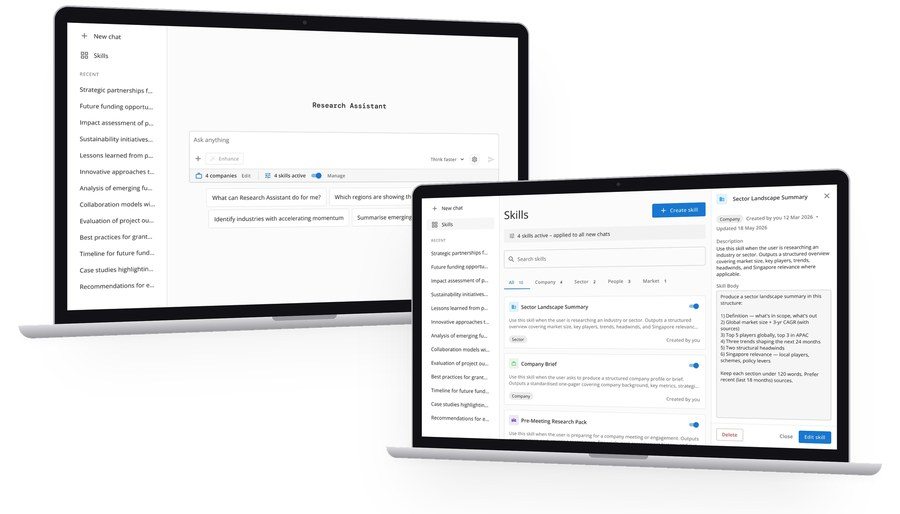
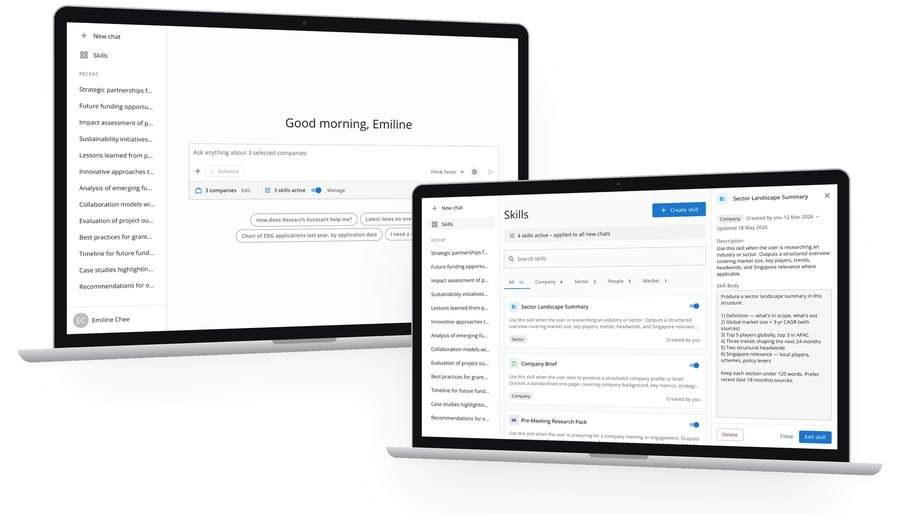
Publish the Research Assistant case study
Brings the full write-up, its images, the greeting hero and the
shared editorial/caption styles over from drafts. Workflow Builder
stays drafts-only.

diff --git a/case-studies/research-assistant.html b/case-studies/research-assistant.html
@@ -4,14 +4,14 @@
 <meta charset="UTF-8">
 <meta name="viewport" content="width=device-width, initial-scale=1.0">
 <title>EnterpriseSG research assistant — emiline</title>
-<meta name="description" content="Bringing conversational AI to an internal data hub">
+<meta name="description" content="Bringing conversational AI to an internal data hub.">
 <link rel="icon" href="../favicon.svg" type="image/svg+xml">
 <link rel="icon" href="../favicon-32.png" sizes="32x32" type="image/png">
 <link rel="apple-touch-icon" href="../apple-touch-icon.png">
 <meta property="og:type" content="website">
 <meta property="og:site_name" content="emillionaire.design">
 <meta property="og:title" content="EnterpriseSG research assistant — emiline">
-<meta property="og:description" content="Bringing conversational AI to an internal data hub">
+<meta property="og:description" content="Bringing conversational AI to an internal data hub.">
 <meta property="og:url" content="https://emillionaire.design/case-studies/research-assistant.html">
 <meta property="og:image" content="https://emillionaire.design/assets/img/share.jpg">
 <meta property="og:image:width" content="1200">
@@ -41,16 +41,206 @@
       <span class="yr">2026</span>
       <h1>EnterpriseSG research assistant</h1>
       <p>Bringing conversational AI to an internal data hub</p>
+      <dl class="cs-meta">
+        <div><dt>Role</dt><dd>Solo product designer</dd></div>
+        <div><dt>Client</dt><dd>Enterprise Singapore</dd></div>
+        <div><dt>Status</dt><dd>Launched Aug 2026</dd></div>
+        <div><dt>Date</dt><dd>Oct 2025 – present</dd></div>
+      </dl>
+      <p class="cs-fine">* Product name and assets replaced to protect internal product identity.</p>
     </div>
 
     <div class="ed-hero">
-      <img src="../assets/img/research-assistant.png" alt="Research Assistant cover image">
+      <img src="../assets/img/research-assistant.png" alt="Two angled laptops: the Research Assistant chat home greeting the officer behind, and the Skills library with a skill detail drawer in front">
     </div>
   </header>
 
-  <div class="cs-soon">
-    <b>Full case study coming soon.</b> This project is on the list to be written up in detail — for now, here's a preview of the project.
-  </div>
+  <section class="cs-section">
+    <h2>Overview</h2>
+    <p>Officers at Enterprise Singapore were spending <strong>2+ hours per company brief</strong>, manually pulling information from internal platforms and the open web before client meetings and strategy reviews. That was time taken away from higher-value client work.</p>
+    <p>To cut that time down, we built a conversational, agentic research assistant that <strong>brings company, sector and market insights into one place</strong>. Officers ask a question and get an answer drawn from EnterpriseSG’s internal data platform and real-time web search, with sources cited.</p>
+    <p>As the sole designer, I owned end-to-end product design, working closely with the PM, AI engineer and dev team to ship 13 features across multiple beta rounds.</p>
+  </section>
+
+  <section class="cs-section">
+    <span class="yr">How it evolved</span>
+    <h2>From chatbot to research platform</h2>
+    <p>The product went through three distinct phases, <strong>each shaped by what we learned from the one before</strong>.</p>
+
+    <div class="cs-issue phase">
+      <span class="yr">Phase 01 · Concept and research</span>
+      <h3>Touchpoints AI</h3>
+      <p>A chatbot embedded in the “Past Touchpoints” section of a company page in EnterpriseSG’s data platform. <strong>Scoped entirely to that company’s engagement history</strong>, it let officers ask about past interactions (eg. call reports, past meetings) without leaving their current view.</p>
+      <p class="cs-aside">Assumption: officers want help in context, where they’re already looking.</p>
+      <div class="cs-img"><img class="soft" src="../assets/img/research-assistant/touchpoints-ai.gif" alt="Prototype: opening the Touchpoints AI chatbot from a company page in the data platform" loading="lazy"></div>
+      <h4 class="cs-subhead spaced">But officers needed more than touchpoints</h4>
+      <p>Interviews with ~10 officers showed they needed more than engagement history. To prepare for a meeting or write a company brief, they were pulling together <strong>company profiles, grant and scheme history, financials and web research across multiple systems</strong>.</p>
+      <p class="cs-aside">“I still need to use ChatGPT or Google to do a background search when meeting a new company.” — Participant A</p>
+      <p>Implication: the assistant had to bring internal data and web research together in one place.</p>
+    </div>
+
+    <div class="cs-issue phase">
+      <span class="yr">Phase 02 · Beta</span>
+      <h3>Sidebar + Full page chat</h3>
+      <p>I designed two surfaces in parallel: a <strong>sidebar chatbot</strong> for company-specific queries, embedded in the existing platform, and a standalone <strong>full-page chat</strong> for broader research across companies and sectors.</p>
+      <div class="cs-img two">
+        <figure class="cs-shot">
+          <img class="soft" src="../assets/img/research-assistant/sidebar-prototype.gif" alt="Prototype: the sidebar chatbot opening beside a company page" loading="lazy">
+          <figcaption>Sidebar chat</figcaption>
+        </figure>
+        <figure class="cs-shot">
+          <img class="soft" src="../assets/img/research-assistant/full-page-chat.jpg" alt="Full-page Research Assistant chat greeting the officer by name, with suggested prompts under the input" loading="lazy">
+          <figcaption>Full-page chat</figcaption>
+        </figure>
+      </div>
+
+      <h4 class="cs-subhead spaced lg">Org-wide beta testing</h4>
+      <div class="cs-stats three">
+        <div><b>~70</b><span>Officers across divisions</span></div>
+        <div><b>2</b><span>Rounds of beta testing</span></div>
+        <div><b>3</b><span>Test cases per session</span></div>
+      </div>
+      <p>We ran two rounds of beta testing with ~70 officers across divisions, each guided through three structured test cases to surface usability issues and unmet needs.</p>
+      <p>Officers struggled to discover the sidebar and preferred the full-page chat for everything. <strong>We decommissioned the sidebar.</strong></p>
+      <p class="cs-aside">Insight: officers weren’t just reviewing one company. They were synthesising across companies, sectors and sources, and wanted one surface to do it all.</p>
+
+      <h4 class="cs-subhead lg">Top issues identified</h4>
+      <p>As a user,</p>
+      <div class="cs-needs">
+        <div>
+          <span class="yr theme">Context</span>
+          <p>I want the agent to <strong>understand our context</strong>, like sector resolution, brief format and writing style.</p>
+        </div>
+        <div>
+          <span class="yr theme">Scope</span>
+          <p>I want my queries <strong>grounded in a specific company</strong>, without restating it in every prompt.</p>
+        </div>
+        <div>
+          <span class="yr theme">Sources</span>
+          <p>I want to see the <strong>web sources</strong> consulted, and open the underlying call reports <strong>without leaving the interface</strong>.</p>
+        </div>
+      </div>
+    </div>
+
+    <div class="cs-issue phase">
+      <span class="yr">Phase 03 · Current</span>
+      <h3>Agentic research platform</h3>
+      <p>Those findings reshaped the product. Rather than asking a question and receiving an answer, officers now brief the agent: <strong>setting scope, activating skills</strong>, and <strong>letting the agent plan, query, synthesise and evaluate on its own</strong> before responding. The officer delegates; the agent handles the research workflow.</p>
+      <p class="cs-aside">Insight: access to information wasn’t the bottleneck. Officers needed to be able to shape how the agent worked, not just what it searched.</p>
+    </div>
+  </section>
+
+  <section class="cs-section features">
+    <h2>Key features</h2>
+    <p>The beta findings shaped the 13 features that followed. Here are some of the key ones, the problem each solved and the decisions behind them.</p>
+
+    <span class="yr theme">Context</span>
+    <h3>Skills and prompt enhancement</h3>
+    <p>Beta feedback made it clear that officers weren’t struggling to access information. They struggled to ask for it in a way that produced useful results. <strong>Different officers expected different formats, tone and depth</strong>, and the agent had no way to account for that by default. I designed two features that tackle this at different points.</p>
+
+    <h4 class="cs-subhead">1. Skills</h4>
+    <p>Skills are <strong>small, reusable instruction bundles</strong> that <strong>teach the agent how to execute a specific task consistently</strong>. For example, an officer activating the “Sector Landscape Summary” skill gets a structured overview of market size, key players and trends, without spelling any of that out in every prompt.</p>
+    <p>The challenge was making skills feel lightweight and within reach, not like a settings menu buried in a corner. <strong>The skills bar sits directly beneath the input</strong>, always visible. A manage link opens the library, where a drawer lets officers preview a skill while keeping the list in view.</p>
+    <figure class="cs-shot cs-img mid mid-sm">
+      <img src="../assets/img/research-assistant/skills-bar.png" alt="Three states of the skills bar under the input: skills off, no skills active, and two skills active plus 2 more" loading="lazy">
+      <figcaption>Skills bar within input box</figcaption>
+    </figure>
+    <figure class="cs-shot cs-img">
+      <img class="soft" src="../assets/img/research-assistant/skill-library.jpg" alt="Skills library with category tabs and toggles, and a drawer showing the Sector Landscape Summary skill's description and body" loading="lazy">
+      <figcaption>Skills library with detail drawer; browse, preview, and toggle without leaving the page</figcaption>
+    </figure>
+
+    <h4 class="cs-subhead">2. Prompt enhancement</h4>
+    <p>Even with skills active, officers sometimes sent prompts <strong>too brief or ambiguous</strong> to produce a good result. The Enhance button tackles this at the moment of input, <strong>expanding and clarifying a prompt before it’s sent</strong>, without the officer needing to know what a “good” prompt looks like.</p>
+    <p>The interaction had to feel helpful, not corrective. I designed <strong>six states</strong>: empty (disabled), below the character threshold, ready, streaming (the text rewrites inline instead of showing a spinner), complete with two-level undo, and error, with amber for a timeout and red for a failure.</p>
+    <figure class="cs-shot cs-img mid">
+      <img src="../assets/img/research-assistant/enhance-states.png" alt="Six states of the input's Enhance button, from disabled to enhanced with undo, and an error message" loading="lazy">
+      <figcaption>Enhance button state progression: empty → below-threshold → ready → streaming → complete → error</figcaption>
+    </figure>
+
+    <span class="yr theme">Scope</span>
+    <h3>Company scoping</h3>
+    <p>Officers needed a way to point queries at specific companies without breaking the flow of starting a conversation. Early versions treated scope as a single-company toggle, but feedback made it clear that scope had to <strong>support multiple companies</strong>.</p>
+    <p><strong>Key constraint:</strong> scope had to be set before the first message. Changing it mid-session would invalidate the conversation context, so the <strong>entry point had to be clear</strong>, and the locked state had to explain itself rather than surface as an error.</p>
+    <p>Getting to the right pattern took several iterations, each exposing a different problem.</p>
+
+    <div class="cs-issue">
+      <span class="yr step">Iteration 1</span>
+      <h4 class="cs-subhead">Slash command</h4>
+      <p>Typing “/” in the input opened a <strong>contextual menu</strong> with companies and skills, a pattern familiar from tools like Notion or Claude. The problem was <strong>discoverability</strong>: officers who didn’t know the shortcut would never find scope or skills at all.</p>
+      <figure class="cs-shot cs-img mid">
+        <img src="../assets/img/research-assistant/iteration-1.png" alt="Input with a slash menu offering Companies and Skills" loading="lazy">
+        <figcaption>Typing “/” surfaces a contextual menu with Companies and Skills options inline in the input</figcaption>
+      </figure>
+    </div>
+
+    <div class="cs-issue">
+      <span class="yr step">Iteration 2</span>
+      <h4 class="cs-subhead">Settings gear popover</h4>
+      <p>A single <strong>gear icon popover</strong> gave scope and skills one tidy entry point. But the icon gave <strong>no signal about what was configured</strong>: officers couldn’t tell whether scope was set or skills were active without clicking to check.</p>
+      <figure class="cs-shot cs-img mid">
+        <img src="../assets/img/research-assistant/iteration-2.png" alt="Gear icon popover listing company chips and skill chips" loading="lazy">
+        <figcaption>Gear icon in toolbar opens a popover showing Companies and Skills chips in one panel</figcaption>
+      </figure>
+    </div>
+
+    <div class="cs-issue">
+      <span class="yr step">Iteration 3</span>
+      <h4 class="cs-subhead">Scope banner above input</h4>
+      <p>A persistent <strong>“<em>Scoped to</em>” banner</strong> above the input made scope visible at a glance. But with scope above and skills below, the <strong>composer felt heavy</strong>: two rows of configuration before officers had typed anything.</p>
+      <figure class="cs-shot cs-img mid">
+        <img src="../assets/img/research-assistant/iteration-3.png" alt="Scoped to banner with company chips above the input, and a skills row below it" loading="lazy">
+        <figcaption>“Scoped to:” banner row above input with company chips, skills toggle row below</figcaption>
+      </figure>
+    </div>
+
+    <div class="cs-issue">
+      <span class="yr rec">Final</span>
+      <h4 class="cs-subhead">Config line</h4>
+      <p>The solution was collapsing scope and skills into <strong>a single compact strip below the input</strong>: the config line. It always states the current setup (eg. “4 companies · 3 skills active”) and stays visible throughout the session, so officers can read their context at a glance before typing.</p>
+      <figure class="cs-shot cs-img mid">
+        <img src="../assets/img/research-assistant/iteration-4.png" alt="Input with a single config line reading 4 companies and 3 skills active" loading="lazy">
+        <figcaption>Config line below input as a single compact strip</figcaption>
+      </figure>
+      <p>Clicking Edit opens a <strong>right-side drawer</strong> where scoped companies appear as chips, and officers can search to add or remove them. <strong>Changes are staged before they’re applied</strong>, so half-finished edits never take effect. Once confirmed, the config line and input placeholder update to match.</p>
+      <figure class="cs-shot cs-img">
+        <img class="soft" src="../assets/img/research-assistant/editing-companies.jpg" alt="Chat scoped to 3 companies with the Edit companies in scope drawer open: selected companies as removable chips, a search for lorem with 2 results, and an Update scope button" loading="lazy">
+        <figcaption>Edit drawer; search to add or remove companies, then apply with Update scope</figcaption>
+      </figure>
+    </div>
+
+    <span class="yr theme">Sources</span>
+    <h3>Source attribution</h3>
+    <p>From the earliest interviews, <strong>trust was the central concern</strong>: officers wanted to know how a response was reached and where it came from before relying on it. So source attribution had to be visible at every stage of the research, not just appended to a finished answer. Two components carry this across the product.</p>
+
+    <h4 class="cs-subhead">1. Citation bubbles in reasoning steps</h4>
+    <p>As the agent works through a query, it <strong>shows the web sources</strong> consulted at each reasoning step, inline and in real time, so officers see the research as it happens. <strong>Citation bubbles are compact chips on each step</strong> that expand to show source detail on demand.</p>
+    <figure class="cs-shot cs-img mid">
+      <img src="../assets/img/research-assistant/citation-bubbles.png" alt="Searched the web reasoning step with six source chips and 4 more" loading="lazy">
+      <figcaption>Reasoning steps with citation bubbles</figcaption>
+    </figure>
+
+    <h4 class="cs-subhead">2. Call report drawer</h4>
+    <p>For internal sources, officers needed to <strong>verify the call reports a response cites without leaving the chat</strong>. Clicking a report reference opens a <strong>right-side drawer with the full report</strong>. The left sidebar collapses to an icon rail to make space, keeping the chat visible beside the drawer.</p>
+    <p>The key decision was treating the collapsed sidebar as a state triggered by the drawer, not a user preference. When the drawer closes, the sidebar expands again automatically, so officers never have to restore their workspace by hand.</p>
+    <figure class="cs-shot cs-img">
+      <img class="soft" src="../assets/img/research-assistant/call-report-drawer.gif" alt="Prototype: clicking a call report reference opens the report in a right-side drawer while the sidebar collapses" loading="lazy">
+      <figcaption>Prototype of opening a call report inline</figcaption>
+    </figure>
+  </section>
+
+  <section class="cs-section">
+    <h2>Outcomes</h2>
+    <p>The research assistant <strong>launched in August 2026</strong>.</p>
+    <div class="cs-stats three">
+      <div><b>~290</b><span>Monthly active users by September</span></div>
+      <div><b>~1,150</b><span>Chats started in September</span></div>
+      <div><b>13</b><span>Features designed and shipped</span></div>
+    </div>
+
+    <h3>What’s next</h3>
+    <p>I’m now designing the next release, including a <strong>skills library</strong> and <strong>secure file upload</strong>. Alongside that, we’re in the midst of <strong>surveying officers</strong> on how they use the assistant day to day: which tasks they bring to it, where its answers fall short, and what would make it a regular part of their workflow. Their responses will shape the roadmap beyond this release.</p>
+  </section>
 
   <nav class="ed-next" aria-label="More work">
     <a href="../projects.html" data-back><span>Back to</span>All work</a>

diff --git a/assets/css/editorial.css b/assets/css/editorial.css
@@ -73,6 +73,17 @@ body.ed{
 .ed .cs-refs + *{ margin-top:0; }
 .ed .cs-refs{ gap:40px; }
 
+/* header fine print (e.g. "assets replaced" disclaimers) */
+.ed .cs-hero p.cs-fine{ margin:18px 0 0; font-family:'JetBrains Mono',monospace; font-size:11.5px; color:var(--ed-sub); letter-spacing:.02em; }
+
+/* row of headline numbers; three-up user needs */
+.ed .cs-stats{ display:grid; grid-template-columns:repeat(4,1fr); gap:24px; margin:32px 0 36px; padding:24px 0; border-top:1px solid var(--ed-line); border-bottom:1px solid var(--ed-line); }
+.ed .cs-stats b{ display:block; font-family:'Bricolage Grotesque',sans-serif; font-weight:800; font-size:clamp(32px,4vw,44px); line-height:1; margin-bottom:8px; }
+.ed .cs-stats.three{ grid-template-columns:repeat(3,1fr); }
+.ed .cs-stats span{ display:block; font-size:14px; line-height:1.45; color:var(--ed-sub); }
+.ed .cs-needs{ display:grid; grid-template-columns:repeat(3,1fr); gap:28px; margin:20px 0 32px; }
+.ed .cs-section .cs-needs p{ font-size:15px; margin:0; }
+
 .ed .cs-links a{ border-width:1px; }
 .ed .cs-soon{ border:1px dashed #c9c9d3; margin-top:40px; }
 
@@ -102,6 +113,8 @@ body.ed{
 @media (max-width:680px){
   .ed .cs-img.split-rev{ grid-template-columns:1fr; }
   .ed .cs-img.three{ grid-template-columns:1fr; max-width:300px; }
+  .ed .cs-stats{ grid-template-columns:1fr 1fr; }
+  .ed .cs-needs{ grid-template-columns:1fr; gap:20px; }
   .ed-wrap{ padding:0 16px; }
   .ed-nav .ed-bar{ padding:16px; }
   .ed-head{ padding-top:32px; padding-bottom:36px; }
@@ -113,5 +126,26 @@ body.ed{
   .ed-foot .ed-bar{ padding:20px 16px 40px; }
 }
 
+/* a chip that labels a subsection (h3) sits with its heading, spaced from what came before */
+.ed .cs-section > .yr:not(:first-child){ margin-top:40px; }
+/* more air between an image and the subhead that follows it */
+.ed .cs-subhead.spaced{ margin-top:48px; }
+.ed .cs-subhead.lg{ font-size:20px; }
+/* two config panels shown at the same panel width as the four-panel row above */
+.ed .cs-img.panel-pair{ max-width:392px; }
+/* a subhead one level down (e.g. under "Org-wide beta testing") */
+.ed .cs-subhead.sm{ font-size:15px; margin-top:28px; }
+/* neutral chip for steps (iterations), so coral stays for Context / Scope / Sources */
+.ed .yr.step{ background:#ebebf0; color:var(--z-ink); }
+/* blue chip for themes that aren't problems (Research Assistant's Context / Scope / Sources), where coral would read as an error */
+.ed .yr.theme{ background:var(--z-bg); color:#fff; }
+.ed .cs-section > .yr + h3, .ed .cs-issue > .yr + h4{ margin-top:0; }
 /* a section split into several h2-level parts (e.g. Ingenico's design walkthrough) */
 .ed .cs-section.multi > h2:not(:first-of-type){ margin-top:64px; }
+/* phase timeline headings (Research Assistant) read at section-heading size */
+.ed .cs-issue.phase h3{ font-size:clamp(24px,3vw,32px); line-height:1.08; }
+/* a features walkthrough: more air between features so captions stay with their image */
+/* (the first chip keeps the default 40px so it reads as part of the intro) */
+.ed .cs-section.features > .yr ~ .yr{ margin-top:72px; }
+.ed .cs-section.features > .cs-shot + .cs-subhead{ margin-top:56px; }
+.ed .cs-section.features > .cs-shot + .cs-shot{ margin-top:48px; }

diff --git a/assets/css/style.css b/assets/css/style.css
@@ -223,11 +223,17 @@ a{ color:inherit; text-decoration:none; }
 /* captioned images: .cs-shot = unboxed image with caption below; .cs-fig = boxed (filter tab panels) */
 .cs-shot{ margin:0; }
 .cs-shot.cs-img{ margin:28px 0 32px; }
+/* the grid gap meant for side-by-side images pushed captions away; pull them back to 10px */
+.cs-shot.cs-img > figcaption{ margin-top:-14px; }
+/* shadowed (.soft) images have no built-in padding like the PNGs, so give their captions the full gap */
+.cs-shot.cs-img > img.soft + figcaption{ margin-top:0; }
 .cs-shot figcaption{
   font-family:'JetBrains Mono',monospace; font-size:11.5px; color:var(--z-sub);
   letter-spacing:.02em; text-align:center; margin-top:10px;
 }
 .cs-img.mid{ max-width:640px; margin-left:auto; margin-right:auto; }
+/* inputs narrower than enhance-states.png: 940px source at the same 640/1156 scale */
+.cs-img.mid.mid-sm{ max-width:520px; }
 .cs-img.mid img{ border-radius:8px; }
 .cs-img img.flat{ border-radius:0; box-shadow:none; }
 .cs-img.narrow{ max-width:820px; margin-left:auto; margin-right:auto; }
